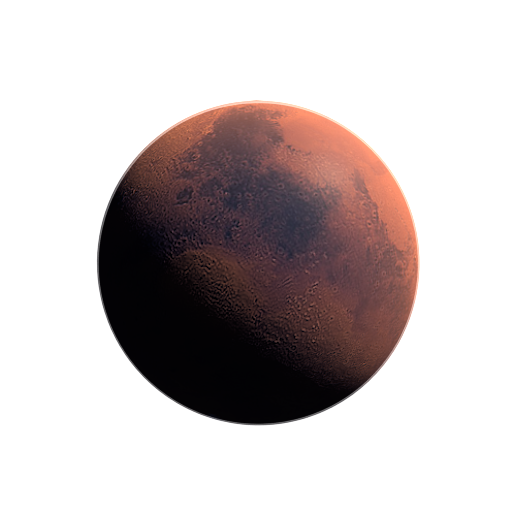
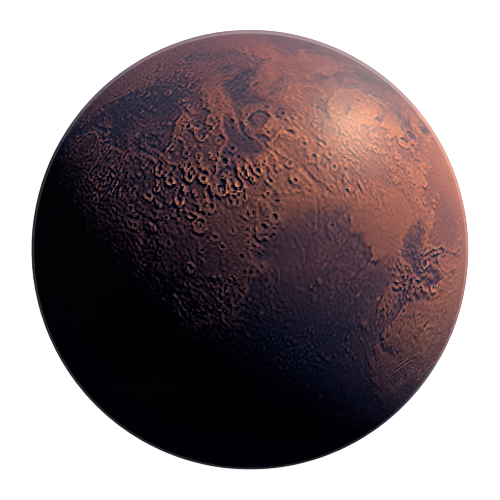
feat(base): clean & new building list

diff --git a/assets/modules/base/components/Base.scss b/assets/modules/base/components/Base.scss
@@ -1,116 +1,6 @@
+@import '../../../../scss/mixins/mixins';
 @import '../../../../scss/variables/variables';
 
-$town-width: 400px;
-$town-height: 400px;
-$cell-size: 60px;
-
-$positions: (
-        "1": (
-                "top": $town-height / 4 - $cell-size / 2,
-                "left": $town-width / 4 - $cell-size / 2
-        ),
-        "2": (
-                "top": $town-height / 4 - $cell-size / 2,
-                "left": $town-width / 2 - $cell-size / 2
-        ),
-        "3": (
-                "top": $town-height / 4 - $cell-size / 2,
-                "left": $town-width * 3 / 4 - $cell-size / 2
-        ),
-        "4": (
-                "top": $town-height / 2 - $cell-size / 2,
-                "left": $town-width / 4 - $cell-size / 2
-        ),
-        "5": (
-                "top": $town-height / 2 - $cell-size / 2,
-                "left": $town-width / 2 - $cell-size / 2
-        ),
-        "6": (
-                "top": $town-height / 2 - $cell-size / 2,
-                "left": $town-width * 3 / 4 - $cell-size / 2
-        ),
-        "7": (
-                "top": $town-height * 3 / 4 - $cell-size / 2,
-                "left": $town-width / 4 - $cell-size / 2
-        ),
-        "8": (
-                "top": $town-height * 3 / 4 - $cell-size / 2,
-                "left": $town-width / 2 - $cell-size / 2
-        ),
-        "9": (
-                "top": $town-height * 3 / 4 - $cell-size / 2,
-                "left": $town-width  * 3 / 4 - $cell-size / 2
-        ),
-);
-
-$cell-width: 60px;
-$cell-height: 60px;
-
 .Base {
-
-  #buildings {
-    width: $town-width;
-    height: $town-height;
-    border: 1px solid $gray-light;
-    border-radius: $border-radius-base;
-    background-color: #000;
-    margin: auto;
-    position: relative;
-
-    .cell {
-      position: absolute;
-      content: '0';
-      cursor: pointer;
-      background-image: url('http://placehold.it/60x60');
-      background-size: cover;
-      border: 1px solid $gray-dark;
-      border-radius: $border-radius-base;
-      width: $cell-width;
-      height: $cell-height;
-
-      img {
-        width: 100%;
-        height: 100%;
-      }
-
-      &:hover {
-        transition: background 0.5s ease;
-        background-color: darken($gray-light, 10);
-      }
-
-      .progress {
-        height: 10px;
-        position: absolute;
-        width: 100%;
-        border-bottom-left-radius: $border-radius-base;
-        border-bottom-right-radius: $border-radius-base;
-        bottom: -1px;
-        left:-1px;
-      }
-
-      .level {
-        font-size: 0.6rem;
-        position: absolute;
-        right: 0;
-        bottom: 12px;
-      }
-    }
-
-    .emptyCell {
-      background: grey none;
-      width: $cell-size;
-      height: $cell-size;
-    }
-
-
-    @each $key, $value in $positions {
-      #pos#{$key} {
-        @each $k, $v in $value {
-          #{$k}: #{$v}
-        }
-      }
-    }
-
-
-  }
+  @include block();
 }

diff --git a/assets/index.js b/assets/index.js
@@ -99,7 +99,6 @@ import LoginContainer from './modules/auth/LoginContainer';
 import BaseContainer from './modules/base/BaseContainer';
 import PlayerCreationContainer from './modules/player/PlayerCreationContainer';
 import BaseCreationContainer from './modules/base/BaseCreationContainer';
-import BaseRight from './modules/base/components/BaseRight'
 import Planet from './modules/core/components/Planet/Planet'
 
 function renderApp() {
@@ -109,7 +108,8 @@ function renderApp() {
           <Route path="/" component={App} onEnter={requireAuth}>
             <IndexRoute components={{center: HomePage, right: HomePage}} />
             <Route path="home" components={{center: HomePage, right: HomePage}} />
-            <Route path="base" components={{center: Planet, right: BaseRight}} />
+            <Route path="planet" components={{center: Planet}} />
+            <Route path="base" components={{center: BaseContainer}} />
 
             <Route path="create/player" components={{center: PlayerCreationContainer, right: HomePage}} />
             <Route path="create/base" components={{center: BaseCreationContainer, right: HomePage}} />

diff --git a/assets/modules/base/components/Base.js b/assets/modules/base/components/Base.js
@@ -6,6 +6,7 @@ import map from 'lodash/map'
 import filter from 'lodash/filter'
 import reduce from 'lodash/reduce'
 import * as PopupTypes from '../../core/components/Popup/PopupTypes'
+import BuildingsList from './../../buildings/components/BuildingsList'
 
 require('./Base.scss');
 
@@ -16,12 +17,13 @@ class Base extends Component {
     }
 
     render() {
+
         return (
             <div className="Base">
-                <h2>{ this.props.base.name }</h2>
+                <h2>Base : { this.props.base.name }</h2>
 
                 <div id="buildings">
-                    Coming soon !
+                    <BuildingsList buildings={this.props.base.buildings}/>
                 </div>
             </div>
         )
@@ -30,6 +32,7 @@ class Base extends Component {
 
 Base.propTypes = {
     base: PropTypes.object.isRequired,
+    sBuildings: PropTypes.object.isRequired,
     onSelectCell: PropTypes.func.isRequired
 };
 

diff --git a/assets/modules/base/reducers/baseReducer.js b/assets/modules/base/reducers/baseReducer.js
@@ -3,6 +3,7 @@ import * as BuldingsActions from '../actions/BuildingActionTypes';
 import * as AppActions from '../../core/actions/AppActionTypes';
 import clone from 'lodash/clone';
 import map from 'lodash/map';
+import omit from 'lodash/omit';
 
 import forEach from 'lodash/forEach'
 
@@ -20,10 +21,17 @@ export function populateBase(state, base) {
     }
     const buildings = [];
     map(base.buildings, (id) => {
-        buildings.push(state.entities.buildings[id])
+        buildings.push(populateBuilding(state, state.entities.buildings[id]))
     });
 
     return {...base, buildings};
+}
+
+export function populateBuilding (state, building) {
+    return {
+        ...building,
+        ...omit(state.entities.staticBuildings[building.buildingId], ['id'])
+    }
 }
 
 export function currentBase (state = {

diff --git a/assets/modules/base/BaseContainer.js b/assets/modules/base/BaseContainer.js
@@ -26,6 +26,7 @@ class BaseContainer extends Component {
         return (
             <div>
                 <Base onSelectCell={this.props.actions.openPopup}
+                      sBuildings={this.props.sBuildings}
                       base={currentBase} />
             </div>
         );
@@ -33,10 +34,11 @@ class BaseContainer extends Component {
     }
 }
 
-import { getCurrentBase } from './reducers/baseReducer'
+import { getPopulatedCurrentBase } from './reducers/baseReducer'
+import { getStaticBuildings } from '../static/reducers/staticReducer'
 
 function mapStateToProps(state) {
-    return { currentBase: getCurrentBase(state) };
+    return { currentBase: getPopulatedCurrentBase(state), sBuildings: getStaticBuildings(state)  };
 }
 
 function mapDispatchToProps(dispatch) {

diff --git a/assets/modules/buildings/components/BuildingsList.js b/assets/modules/buildings/components/BuildingsList.js
@@ -1,0 +1,28 @@
+import React, { Component, PropTypes } from 'react';
+import './BuildingsList.scss'
+
+class BaseBuildingsList extends Component {
+
+    render() {
+
+        const { buildings } = this.props;
+        console.log(buildings);
+        return (
+            <div>
+                {buildings.map((building) => {
+                    return (
+                        <div>
+                            {building.name} - Level {building.currentLevel}
+                        </div>
+                    )
+                })}
+            </div>
+        )
+    }
+}
+
+BaseBuildingsList.propTypes = {
+    base: PropTypes.array.isRequired
+};
+
+export default BaseBuildingsList;

diff --git a/assets/modules/App.scss b/assets/modules/App.scss
@@ -1,3 +1,4 @@
+@import '../../scss/mixins/mixins';
 @import '../../scss/variables/variables';
 
 $center-width: 700px;
@@ -12,11 +13,10 @@ $max-height: 450px;
 }
 
 .AppCenter {
-    width: 80%;
-    min-width: 1000px;
+    width: calc(100% - 2 * 369px);
     height: 75%;
-    margin: auto;
-    //border:1px solid white;
+    margin: $spacing-gutter auto auto;
+
     position: relative;
 }
 
@@ -59,10 +59,9 @@ $max-height: 450px;
 }
 
 .AppTopCenter {
-    $box-shadow: 0px 0px 8px 0px #2897C1;
 
-    border: 2px solid #38CAFF;
-    box-shadow: $box-shadow, inset $box-shadow;
+    @include block();
+
     background: rgba($color-blue, 0.3);
 
     padding: $spacing-inner;

diff --git a/scss/app.scss b/scss/app.scss
@@ -13,10 +13,8 @@
 *  Modules
 ***********/
 
-@import "modules/app/app-center";
 @import "modules/auth/auth";
 @import "modules/button/button";
-@import "modules/notification/notification-block";
 @import "modules/table/table";
 @import "modules/list/list";
 
@@ -24,12 +22,13 @@
 
 @import "reset";
 
+@import url(https://fonts.googleapis.com/css?family=Open+Sans:400,600,700,800,300);
 
 html {
   background: $gray-light;
   height:100%;
   font-size: 13px;
-  font-family:serif;
+  font-family: 'Open Sans', sans-serif;
   line-height:16px;
 }
 

diff --git a/scss/variables/variables.scss b/scss/variables/variables.scss
@@ -11,14 +11,16 @@ $z-index-notifications: 500;
 $z-index-bottom-menu: 100;
 
 
-$font-weight-thin: 200;
+$font-weight-thin: 300;
 $font-weight-normal: 400;
 $font-weight-medium: 600;
-$font-weight-bold: 800;
-$font-weight-bolder: 900;
+$font-weight-bold: 700;
+$font-weight-bolder: 800;
 
 $font-size-tiny: 10px;
 $font-size-small: 12px;
 $font-size-base: 15px;
 $font-size-medium: 18px;
 $font-size-large: 20px;
+
+

diff --git a/assets/modules/core/components/Planet/Planet.scss b/assets/modules/core/components/Planet/Planet.scss
@@ -14,7 +14,8 @@ $planet-z-index: 10;
 }
 
 .Planet {
-  background: url("../../../../../static/img/layout/planete-02.png") center;
+  background: url("../../../../../static/img/layout/planete-04.png") center;
+  background-size: cover;
   width:$planet-size;
   height:$planet-size;
   z-index: $planet-z-index;

diff --git a/scss/mixins/_block.scss b/scss/mixins/_block.scss
@@ -1,0 +1,8 @@
+@import '../variables/variables';
+
+@mixin block($color: $color-blue) {
+  box-shadow: 0px 0px 8px 0px $color, inset 0px 0px 8px 0px $color;
+  border: 2px solid #38CAFF;
+  color: $color-blue;
+  padding: $spacing-gutter;
+}

diff --git a/scss/mixins/mixins.scss b/scss/mixins/mixins.scss
@@ -2,3 +2,4 @@
 @import "links";
 @import "buttons";
 @import "scrollbars";
+@import "block";
